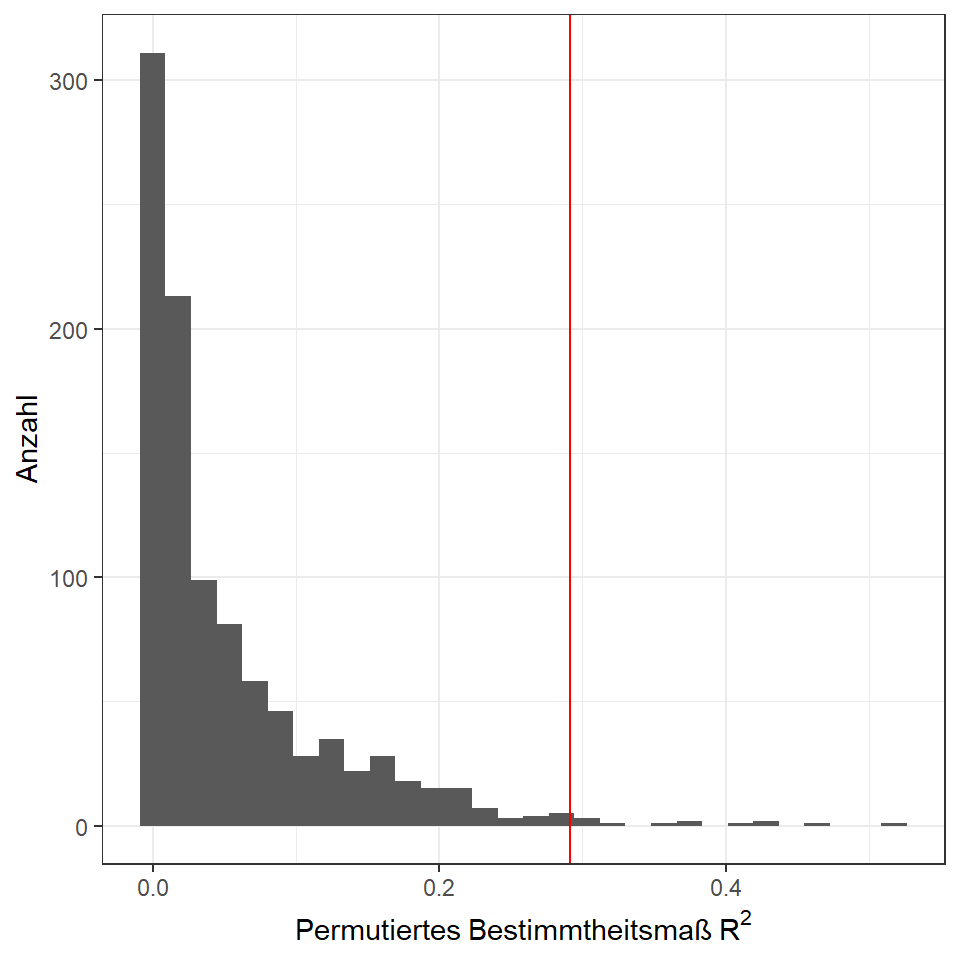
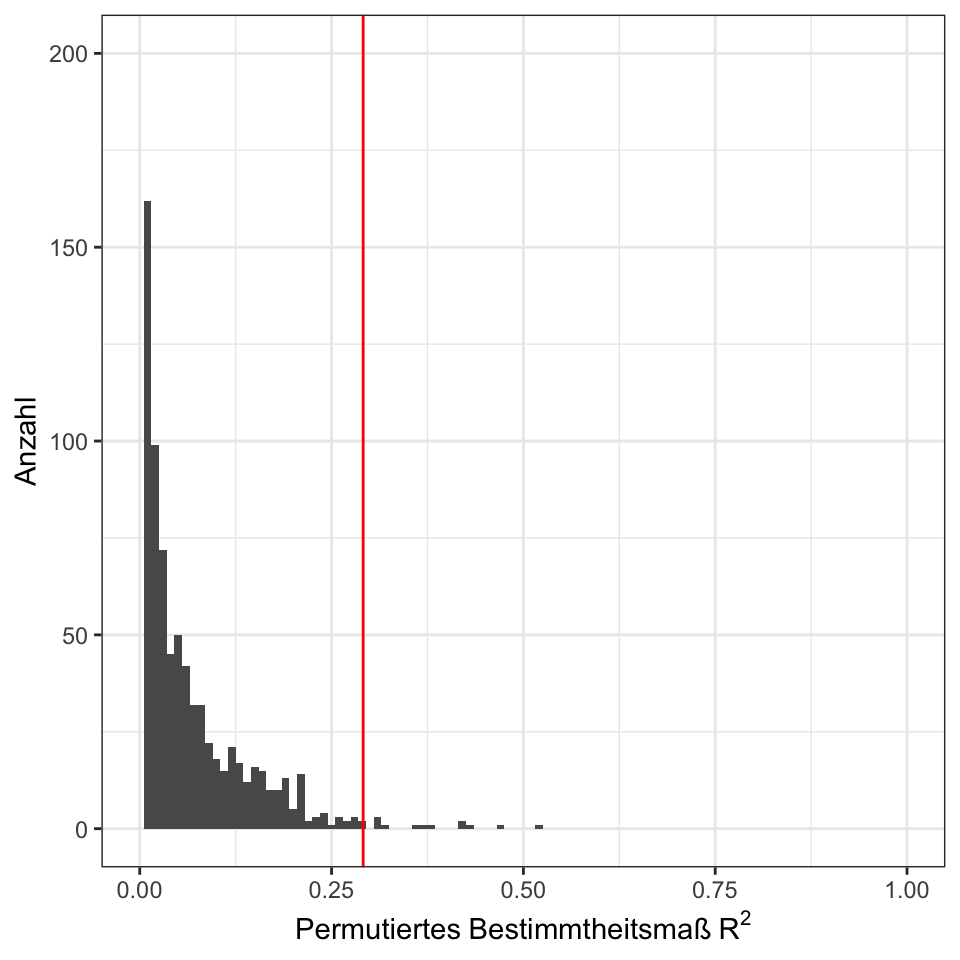
added text

diff --git a/docs/stat-modeling-permutationstest.html b/docs/stat-modeling-permutationstest.html
@@ -594,7 +594,7 @@ code span.wa { color: #60a0b0; font-weight: bold; font-style: italic; } /* Warni
 </header><div class="cell">
 
 </div>
-<p><em>Version vom Mai 17, 2023 um 13:04:30</em></p>
+<p><em>Version vom May 29, 2023 um 12:10:54</em></p>
 <div class="quarto-figure quarto-figure-center">
 <figure class="figure"><p><img src="images/caution.png" class="img-fluid figure-img" style="width:50.0%"></p>
 </figure>
@@ -614,7 +614,7 @@ code span.wa { color: #60a0b0; font-weight: bold; font-style: italic; } /* Warni
 <p>In diesem Kapitel gebe ich eine kurze Übersicht über den Permutationstest. Es gibt einiges an Literatur und auch Kritik sowie Diskussionen. Ich finde den Permutationstest als eine gute Lösung, wenn i) genug Fallzahl vorliegt und damit mehr als 10 Beobachtungen pro Gruppe sowie ii) es keinen passenden Test gibt. Warum muss es genug Beobachtungen in den Gruppen bzw. dann in dem Datensatz geben? Wir müssen ja genug zufällige Daten permutieren. Wenn wir zu wenig Beobachtungen haben, dann wiederholen sich unsere zufälligen Datensätze sehr schnell.</p>
 
 <div class="no-row-height column-margin column-container"><div class="">
-<p>Wie immer gibt es auch hier noch ein erweiteres Tutorium von Ben Bolker <a href="https://mac-theobio.github.io/QMEE/lectures/permutation_examples.notes.html">Simple permutation tests in R</a></p>
+<p>Wie immer gibt es auch hier noch ein erweiteres Tutorium von Ben Bolker <a href="https://mac-theobio.github.io/QMEE/lectures/permutation_examples.notes.html">Simple permutation tests in R</a> oder aber das R Paket <a href="https://infer.netlify.app/">infer</a>.</p>
 </div></div><section id="genutzte-r-pakete" class="level2" data-number="50.1"><h2 data-number="50.1" class="anchored" data-anchor-id="genutzte-r-pakete">
 <span class="header-section-number">50.1</span> Genutzte R Pakete</h2>
 <p>Wir wollen folgende R Pakete in diesem Kapitel nutzen.</p>
@@ -679,11 +679,12 @@ code span.wa { color: #60a0b0; font-weight: bold; font-style: italic; } /* Warni
 <span>  <span class="kw"><a href="https://rdrr.io/r/base/function.html">return</a></span><span class="op">(</span><span class="fu">tibble</span><span class="op">(</span><span class="va">mean_diff</span><span class="op">)</span><span class="op">)</span></span>
 <span><span class="op">}</span><span class="op">)</span></span></code><button title="In die Zwischenablage kopieren" class="code-copy-button"><i class="bi"></i></button></pre></div>
 </div>
+<p>In der <a href="#fig-permut-01">Abbildung&nbsp;<span>50.1</span></a> sehen wir die Verteilung aller Mittelwertsdifferenzen, die aus unserem permutierten Datensätzen herausgekommem sind.</p>
 <div class="cell" data-layout-align="center">
 <div class="cell-output-display">
 <div id="fig-permut-01" class="quarto-figure quarto-figure-center anchored">
 <figure class="figure"><p><img src="stat-modeling-permutationstest_files/figure-html/fig-permut-01-1.png" class="img-fluid figure-img" width="480"></p>
-<p></p><figcaption class="figure-caption">Abbildung&nbsp;50.1— Histogram</figcaption><p></p>
+<p></p><figcaption class="figure-caption">Abbildung&nbsp;50.1— Histogramm der permutierten Mittelwertsdifferenzen</figcaption><p></p>
 </figure>
 </div>
 </div>
@@ -713,10 +714,11 @@ code span.wa { color: #60a0b0; font-weight: bold; font-style: italic; } /* Warni
 <pre><code>[1] 0.049</code></pre>
 </div>
 </div>
+<p>Am Ende bleibt dann die Frage, wie viele Permutationen sollen es denn sein? Auch hier sehen wir dann, dass der t-Test signifikant ist, aber der Permutationstest noch nicht. Vielleicht helfen da mehr Permutationen? Oder aber der Effekt ist dann doch zu gering. Hier musst du dann immer überlegen, ob du nicht zu sehr an dem Signifikanzniveau von 5% klebst. Am Ende muss dann der permutierte <span class="math inline">\(p\)</span>-Wert zudammen mit dem Effekt im Kontext der Fragestellung diskutiert werden.</p>
 </section><section id="bestimmtheitsmaß-r2" class="level2 page-columns page-full" data-number="50.4"><h2 data-number="50.4" class="anchored" data-anchor-id="bestimmtheitsmaß-r2">
 <span class="header-section-number">50.4</span> Bestimmtheitsmaß <span class="math inline">\(R^2\)</span>
 </h2>
-<p>Das vorherige Beispiel mit dem Mittelwertsvergleich war im Prinzip nur eine Fingerübung für den Ablauf. Wir können auch einfach einen t-Test rechnen und dann ist gut. Anders sieht es aus, wenn wir keinen <span class="math inline">\(p\)</span>-Wert geliefert bekommen und auch keinen <span class="math inline">\(H_0\)</span> Testverteilung bekannt ist um einen <span class="math inline">\(p\)</span>-Wert zu bestimmen. Das ist der Fall bei dem Bestimmtheitsmaß <span class="math inline">\(R^2\)</span>. Wir haben hier keine Teststatistik und dadurch einen <span class="math inline">\(p\)</span>-Wert vorliegen. Dagegen können wir dann mit einem Permutationstest was tun. Bei dem 95% Konfidenzintervall wird es dann schwieriger, hier müssen wir dann etwas anders permutierieren. Wir nutrzen dann die Bootstrap Konfidenzintervalle im nächsten Abschnitt.</p>
+<p>Das vorherige Beispiel mit dem Mittelwertsvergleich war im Prinzip nur eine Fingerübung für den Ablauf. Wir können auch einfach einen t-Test rechnen und dann ist gut. Anders sieht es aus, wenn wir keinen <span class="math inline">\(p\)</span>-Wert geliefert bekommen und auch keinen <span class="math inline">\(H_0\)</span> Testverteilung bekannt ist um einen <span class="math inline">\(p\)</span>-Wert zu bestimmen. Das ist der Fall bei dem Bestimmtheitsmaß <span class="math inline">\(R^2\)</span>. Wir haben hier keine Teststatistik und dadurch einen <span class="math inline">\(p\)</span>-Wert vorliegen. Dagegen können wir dann mit einem Permutationstest was tun. Bei dem 95% Konfidenzintervall wird es dann schwieriger, hier müssen wir dann etwas anders permutieren. Wir nutzen dann die Bootstrap Konfidenzintervalle im nächsten Abschnitt.</p>
 <div class="cell">
 <div class="sourceCode" id="cb14"><pre class="downlit sourceCode r code-with-copy"><code class="sourceCode R"><span><span class="va">model_tbl</span> <span class="op">%$%</span></span>
 <span>  <span class="fu"><a href="https://rdrr.io/r/stats/lm.html">lm</a></span><span class="op">(</span><span class="va">jump_length</span> <span class="op">~</span> <span class="va">weight</span><span class="op">)</span> <span class="op">%&gt;%</span> </span>
@@ -726,36 +728,44 @@ code span.wa { color: #60a0b0; font-weight: bold; font-style: italic; } /* Warni
 <pre><code>[1] 0.3000498</code></pre>
 </div>
 </div>
+<p>Damit haben wir erstmal das Bestimmtheitsmaß aus unseren Daten berechnet. Jetzt stellt sich natürlich die Frage, wie wahrscheinlich ist es den dieses Bestimmtheitsmaß von 0.30 zu beobachten? Dafür lassen wir jetzt einen Permutationstest laufen in dem wir die Daten einmal durchmischen.</p>
 <div class="cell">
 <div class="sourceCode" id="cb16"><pre class="downlit sourceCode r code-with-copy"><code class="sourceCode R"><span><span class="va">n_sim</span> <span class="op">&lt;-</span> <span class="fl">1000</span></span>
 <span></span>
 <span><span class="va">r2_perm_tbl</span> <span class="op">&lt;-</span> <span class="fu">map_dfr</span><span class="op">(</span><span class="fl">1</span><span class="op">:</span><span class="va">n_sim</span>, \<span class="op">(</span><span class="va">x</span><span class="op">)</span> <span class="op">{</span></span>
 <span>  <span class="va">r2</span> <span class="op">&lt;-</span> <span class="va">model_tbl</span> <span class="op">%&gt;%</span></span>
+<span>    <span class="co">## Permutation Start</span></span>
 <span>    <span class="fu">mutate</span><span class="op">(</span>weight <span class="op">=</span> <span class="fu"><a href="https://rdrr.io/r/base/sample.html">sample</a></span><span class="op">(</span><span class="va">weight</span><span class="op">)</span><span class="op">)</span> <span class="op">%$%</span></span>
+<span>    <span class="co">## Permutation Ende    </span></span>
 <span>    <span class="fu"><a href="https://rdrr.io/r/stats/lm.html">lm</a></span><span class="op">(</span><span class="va">jump_length</span> <span class="op">~</span> <span class="va">weight</span><span class="op">)</span> <span class="op">%&gt;%</span> </span>
 <span>    <span class="fu">glance</span><span class="op">(</span><span class="op">)</span> <span class="op">%&gt;%</span> </span>
 <span>    <span class="fu">pull</span><span class="op">(</span><span class="va">r.squared</span><span class="op">)</span></span>
 <span>  <span class="kw"><a href="https://rdrr.io/r/base/function.html">return</a></span><span class="op">(</span><span class="fu">tibble</span><span class="op">(</span><span class="va">r2</span><span class="op">)</span><span class="op">)</span></span>
 <span><span class="op">}</span><span class="op">)</span></span></code><button title="In die Zwischenablage kopieren" class="code-copy-button"><i class="bi"></i></button></pre></div>
 </div>
+<p>In der <a href="#fig-permut-02">Abbildung&nbsp;<span>50.2</span></a> sehen wir die Verteilung aller Bestimmtheitsmaße <span class="math inline">\(R^2\)</span>, die aus unserem permutierten Datensätzen herausgekommem sind. Wir erkennen sofort, dass es wenig zufällig bessere Datensätze gibt, die ein höheres Bestimmtheitsmaße <span class="math inline">\(R^2\)</span> erzeugen.</p>
 <div class="cell" data-layout-align="center">
+<div class="cell-output cell-output-stderr">
+<pre><code>Warning: Removed 2 rows containing missing values (`geom_bar()`).</code></pre>
+</div>
 <div class="cell-output-display">
 <div id="fig-permut-02" class="quarto-figure quarto-figure-center anchored">
 <figure class="figure"><p><img src="stat-modeling-permutationstest_files/figure-html/fig-permut-02-1.png" class="img-fluid figure-img" width="480"></p>
-<p></p><figcaption class="figure-caption">Abbildung&nbsp;50.2— Histogram</figcaption><p></p>
+<p></p><figcaption class="figure-caption">Abbildung&nbsp;50.2— Histogramm der permutierten Bestimmtheitsmaße <span class="math inline">\(R^2\)</span></figcaption><p></p>
 </figure>
 </div>
 </div>
 </div>
+<p>Jetzt wollen wir einmal bestimmen wie viele Bestimmtheitsmaße <span class="math inline">\(R^2\)</span> größer sind als unser Bestimmtheitsmaß <span class="math inline">\(R^2 = 0.29\)</span> aus den Daten.</p>
 <div class="cell">
-<div class="sourceCode" id="cb17"><pre class="downlit sourceCode r code-with-copy"><code class="sourceCode R"><span><span class="fu"><a href="https://rdrr.io/r/base/sum.html">sum</a></span><span class="op">(</span><span class="va">r2_perm_tbl</span><span class="op">$</span><span class="va">r2</span> <span class="op">&gt;=</span> <span class="fl">0.291164</span><span class="op">)</span><span class="op">/</span><span class="va">n_sim</span> </span></code><button title="In die Zwischenablage kopieren" class="code-copy-button"><i class="bi"></i></button></pre></div>
+<div class="sourceCode" id="cb18"><pre class="downlit sourceCode r code-with-copy"><code class="sourceCode R"><span><span class="fu"><a href="https://rdrr.io/r/base/sum.html">sum</a></span><span class="op">(</span><span class="va">r2_perm_tbl</span><span class="op">$</span><span class="va">r2</span> <span class="op">&gt;=</span> <span class="fl">0.291164</span><span class="op">)</span><span class="op">/</span><span class="va">n_sim</span> </span></code><button title="In die Zwischenablage kopieren" class="code-copy-button"><i class="bi"></i></button></pre></div>
 <div class="cell-output cell-output-stdout">
 <pre><code>[1] 0.013</code></pre>
 </div>
 </div>
-<p>Ist das Gleiche als wenn wir dann den Mittelwert berechnen.</p>
+<p>Die Berechnung ist das Gleiche, als wenn wir den Mittelwert aus der logischen Abfrage berechnen würden.</p>
 <div class="cell">
-<div class="sourceCode" id="cb19"><pre class="downlit sourceCode r code-with-copy"><code class="sourceCode R"><span><span class="fu"><a href="https://rdrr.io/r/base/mean.html">mean</a></span><span class="op">(</span><span class="va">r2_perm_tbl</span><span class="op">$</span><span class="va">r2</span> <span class="op">&gt;=</span> <span class="fl">0.291164</span><span class="op">)</span> </span></code><button title="In die Zwischenablage kopieren" class="code-copy-button"><i class="bi"></i></button></pre></div>
+<div class="sourceCode" id="cb20"><pre class="downlit sourceCode r code-with-copy"><code class="sourceCode R"><span><span class="fu"><a href="https://rdrr.io/r/base/mean.html">mean</a></span><span class="op">(</span><span class="va">r2_perm_tbl</span><span class="op">$</span><span class="va">r2</span> <span class="op">&gt;=</span> <span class="fl">0.291164</span><span class="op">)</span> </span></code><button title="In die Zwischenablage kopieren" class="code-copy-button"><i class="bi"></i></button></pre></div>
 <div class="cell-output cell-output-stdout">
 <pre><code>[1] 0.013</code></pre>
 </div>
@@ -763,11 +773,12 @@ code span.wa { color: #60a0b0; font-weight: bold; font-style: italic; } /* Warni
 
 <div class="no-row-height column-margin column-container"><div class="">
 <p>Teilweise wird diskutiert, ob der <span class="math inline">\(p\)</span>-Wert hier noch mal 2 genommen werden muss, da wir ja eigentlich zweiseitig Testen wollen, aber da gehen die Meinungen auseinander. Ich belasse es so wie hier.</p>
-</div></div></section><section id="bootstrap-95-konfidenzintervalle" class="level2" data-number="50.5"><h2 data-number="50.5" class="anchored" data-anchor-id="bootstrap-95-konfidenzintervalle">
+</div></div><p>Damit haben wir unseren <span class="math inline">\(p\)</span>-Wert für das Bestimmtheitsmaß <span class="math inline">\(R^2\)</span> mit <span class="math inline">\(0.013\)</span>. Das ist was wir wollten und somit können wir dann auch sagen, dass wir einen signifikantes Bestimmtheitsmaß <span class="math inline">\(R^2\)</span> vorliegen haben. Was noch fehlt ist das 95% Konfidenzintervall, was wir Mithilfe des Bootstrapverfahrens berechnen wollen.</p>
+</section><section id="bootstrap-95-konfidenzintervalle" class="level2" data-number="50.5"><h2 data-number="50.5" class="anchored" data-anchor-id="bootstrap-95-konfidenzintervalle">
 <span class="header-section-number">50.5</span> Bootstrap 95% Konfidenzintervalle</h2>
 <p>Wir können die Methode des Bootstraping nutzen um uns die 95% Konfidenzintervalle über eine Simulation bzw. Permutation berechnen zu lassen. Haben wir in dem Permutatiosntest noch die Spalten permutiert so permutieren wir bei dem Bootstrap-Verfahren die Zeilen. Da wir aber keinen neuen Datensatz erhalten würden, wenn wir nur die Zeilen permutieren, ziehen wir einen <em>kleineren</em> Datensatz mit <em>zurücklegen</em>. Das heißt, dass wir auch Beobachtungen mehrfach in unseren gezogenen Bootstrapdatensatz haben können. Wir nutzen in R die Funktion <code>slice_sample()</code> in der wir dann auswählen, dass 80% der Beobachtungen mit zurücklegen gezogen werden sollen. Das Zurücklegen können wir mit der Option <code>replace = TRUE</code> einstellen.</p>
 <div class="cell">
-<div class="sourceCode" id="cb21"><pre class="downlit sourceCode r code-with-copy"><code class="sourceCode R"><span><span class="va">n_boot</span> <span class="op">&lt;-</span> <span class="fl">1000</span></span>
+<div class="sourceCode" id="cb22"><pre class="downlit sourceCode r code-with-copy"><code class="sourceCode R"><span><span class="va">n_boot</span> <span class="op">&lt;-</span> <span class="fl">1000</span></span>
 <span></span>
 <span><span class="va">r2_boot_tbl</span> <span class="op">&lt;-</span> <span class="fu">map_dfr</span><span class="op">(</span><span class="fl">1</span><span class="op">:</span><span class="va">n_boot</span>, \<span class="op">(</span><span class="va">x</span><span class="op">)</span> <span class="op">{</span></span>
 <span>  <span class="va">r2</span> <span class="op">&lt;-</span> <span class="va">model_tbl</span> <span class="op">%&gt;%</span></span>
@@ -781,7 +792,7 @@ code span.wa { color: #60a0b0; font-weight: bold; font-style: italic; } /* Warni
 <span><span class="op">}</span><span class="op">)</span></span></code><button title="In die Zwischenablage kopieren" class="code-copy-button"><i class="bi"></i></button></pre></div>
 </div>
 <div class="cell">
-<div class="sourceCode" id="cb22"><pre class="downlit sourceCode r code-with-copy"><code class="sourceCode R"><span><span class="va">r2_boot_tbl</span> <span class="op">%$%</span> </span>
+<div class="sourceCode" id="cb23"><pre class="downlit sourceCode r code-with-copy"><code class="sourceCode R"><span><span class="va">r2_boot_tbl</span> <span class="op">%$%</span> </span>
 <span>  <span class="fu"><a href="https://rdrr.io/r/stats/quantile.html">quantile</a></span><span class="op">(</span><span class="va">r2</span>, probs <span class="op">=</span> <span class="fu"><a href="https://rdrr.io/r/base/c.html">c</a></span><span class="op">(</span><span class="fl">0.025</span>, <span class="fl">0.975</span><span class="op">)</span><span class="op">)</span> <span class="op">%&gt;%</span> </span>
 <span>  <span class="fu"><a href="https://rdrr.io/r/base/Round.html">round</a></span><span class="op">(</span><span class="fl">3</span><span class="op">)</span></span></code><button title="In die Zwischenablage kopieren" class="code-copy-button"><i class="bi"></i></button></pre></div>
 <div class="cell-output cell-output-stdout">
@@ -792,7 +803,6 @@ code span.wa { color: #60a0b0; font-weight: bold; font-style: italic; } /* Warni
 <p>Wir hatten ein Bestimmtheitsmaß <span class="math inline">\(R^2\)</span> von <span class="math inline">\(0.30\)</span> berechnet und können dann die untere und obere 95% Konfidenzgrenze ergänzen. Wir erhaltend dann <span class="math inline">\(0.300\, [0.016; 0.620]\)</span>, somit liegt unser beobachtetes Bestimmtheitsmaß <span class="math inline">\(R^2\)</span> mit 95% Sicherheit zwischen <span class="math inline">\(0.016\)</span> und <span class="math inline">\(0.620\)</span>.</p>
 </section><section id="links" class="level2" data-number="50.6"><h2 data-number="50.6" class="anchored" data-anchor-id="links">
 <span class="header-section-number">50.6</span> Links</h2>
-<p>https://infer.netlify.app/</p>
 
 
 </section></main><!-- /main --><script id="quarto-html-after-body" type="application/javascript">
